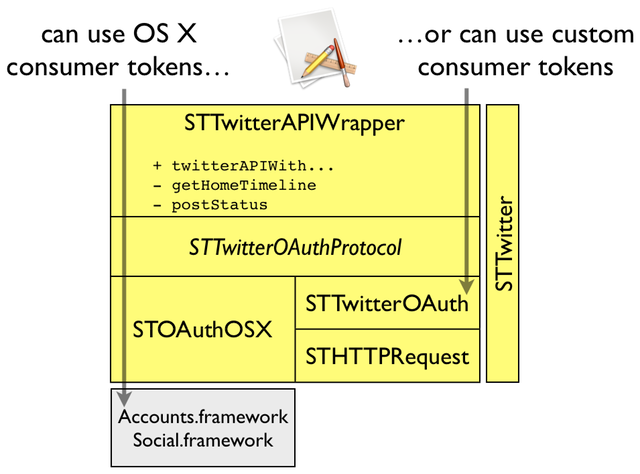
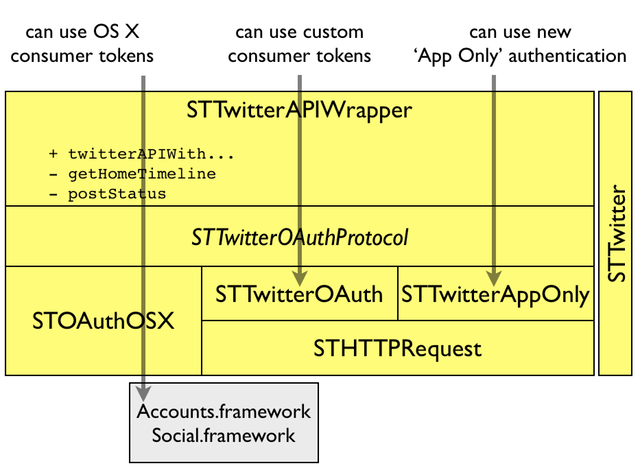
updated readme for 'app only' authentication

diff --git a/README.md b/README.md
@@ -42,15 +42,16 @@ Once you got the OAuth tokens, you can get your timeline and post a new status.
 
 ### OAuth Connection
 
-You can instantiate `STTwitterAPIWrapper` in two ways:
+You can instantiate `STTwitterAPIWrapper` in three ways:
 
 - use the Twitter account set in OS X Preferences
 - use a custom `consumer key` and `consumer secret` (three flavors)
   - get an URL, fetch a PIN, enter it in your app, get oauth access tokens  
   - set `username` and `password`, get oauth access tokens with XAuth, if the app is entitled to
   - set `oauth token` and `oauth token secret` directly
+- use the new [Application Only](https://dev.twitter.com/docs/auth/application-only-auth) authentication and get / use a "bearer token"
 
-So there are four cases altogether, hence the four methods:
+So there are five cases altogether, hence the four methods:
 
     + (STTwitterAPIWrapper *)twitterAPIWithOAuthOSX;
 
@@ -66,6 +67,10 @@ So there are four cases altogether, hence the four methods:
                                              consumerSecret:(NSString *)consumerSecret
                                                  oauthToken:(NSString *)oauthToken
                                            oauthTokenSecret:(NSString *)oauthTokenSecret;
+                   
+    + (STTwitterAPIWrapper *)twitterAPIApplicationOnlyWithConsumerKey:(NSString *)consumerKey
+                                                       consumerSecret:(NSString *)consumerSecret;
+                   
                                            
 ### OAuth Consumer Key / Consumer Secret
 
@@ -87,13 +92,15 @@ Your code only interacts with `STTwitterAPIWrapper`.
 
 `STTwitterOAuth` implements the OAuth procotol, specifically for Twitter.
 
-`STTwitterOAuth` relies on `STHTTPRequest` to POST and GET asynchronous HTTP requests.
+`STTwitterAppOnly` implements the [Application Only](https://dev.twitter.com/docs/auth/application-only-auth) OAuth 2.0 authentication for Twitter.
+
+`STTwitterOAuth` and `STTwitterAppOnly` both relies on `STHTTPRequest` to POST and GET asynchronous HTTP requests.
 
 ![STTwitter](Art/architecture.png "STTwitter Architecture")
 
 ### BSD 3-Clause License
 
-Copyright (c) 2012, Nicolas Seriot
+Copyright (c) 2012-2013, Nicolas Seriot
 All rights reserved.
     
 Redistribution and use in source and binary forms, with or without modification, are permitted provided that the following conditions are met:
